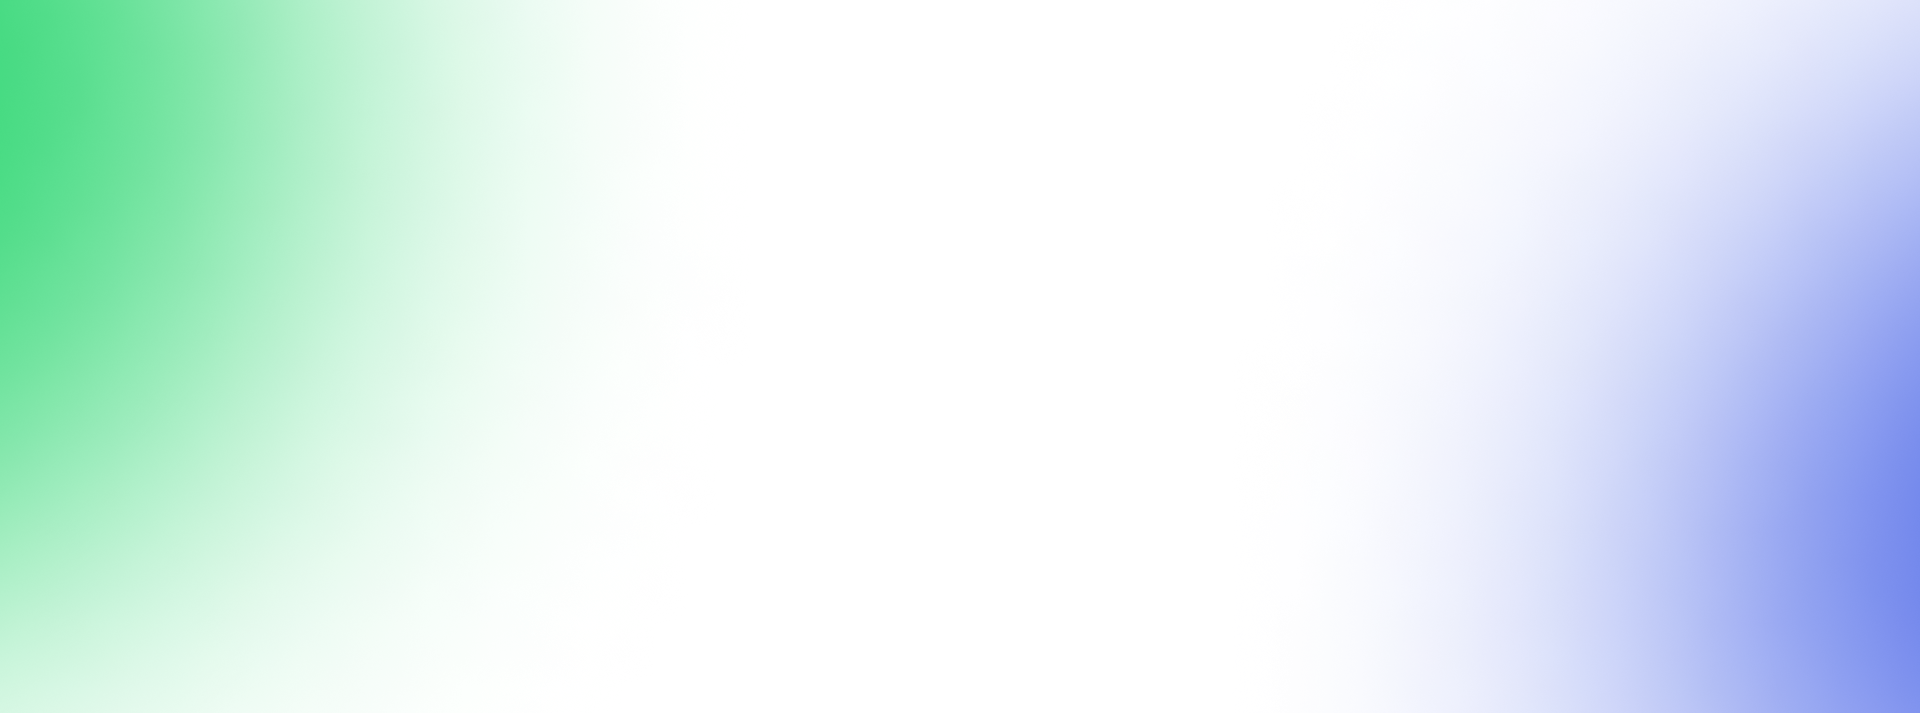
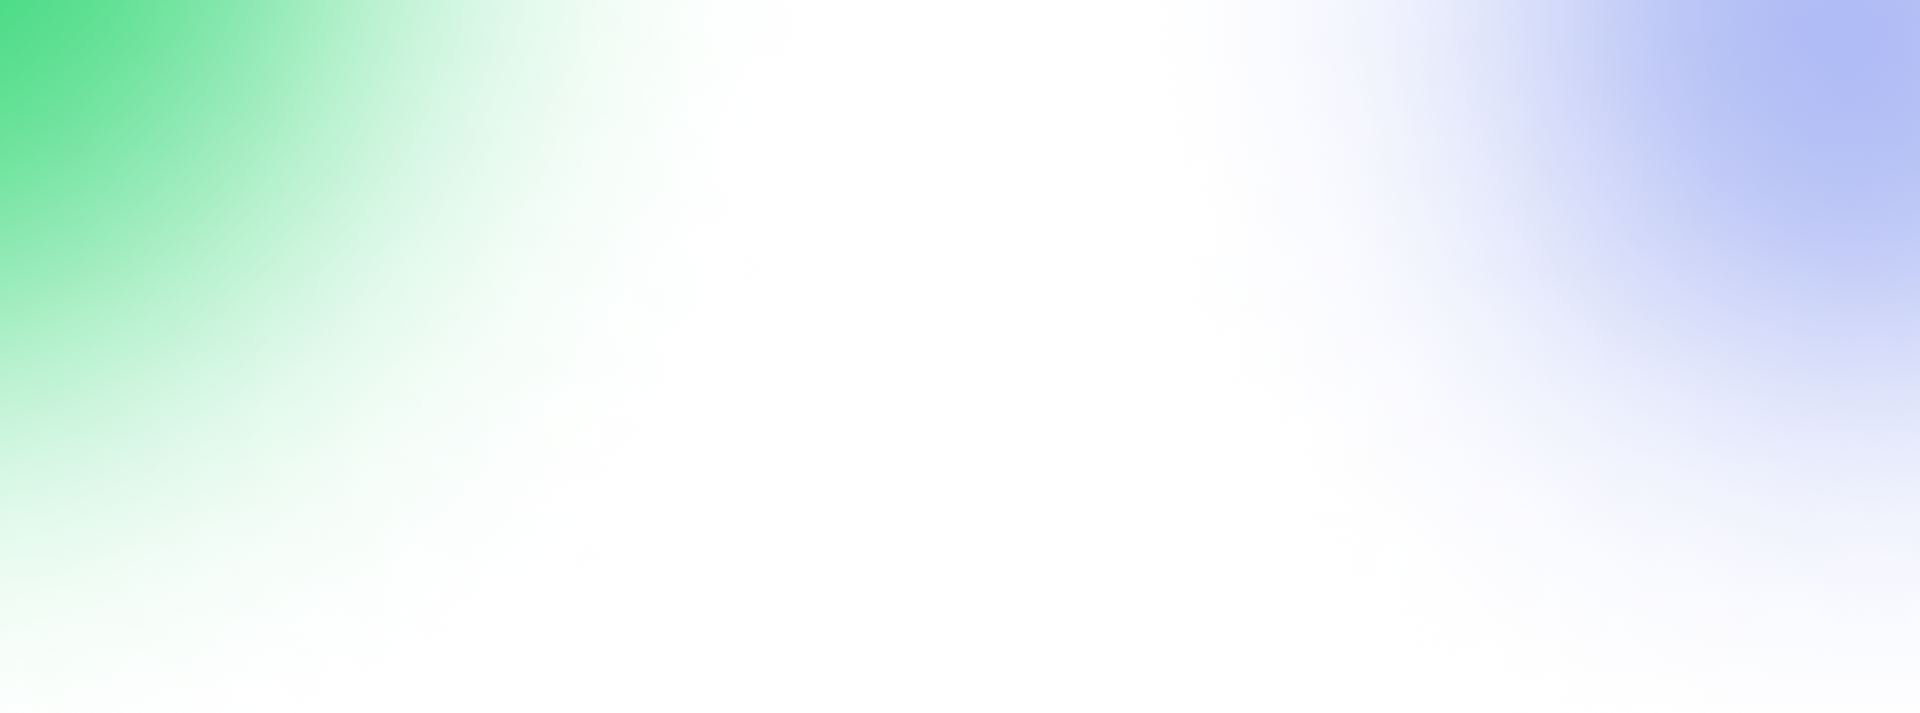
Add files via upload

Changed region(s): [[0.0, 0.1234, 0.1875, 1.0], [0.7812, 0.3086, 1.0, 1.0], [0.75, 0.0, 1.0, 0.2777]]

diff --git a/index.html b/index.html
@@ -8,25 +8,25 @@
     <link rel="stylesheet" href="assets/css/all.css">
 </head>
 <body> 
-        <header>
-            <div class="container">
-                <div >
-                    <i class="fa-solid fa-bars"></i> 
-               </div>
-               <div>               
-                    <img src="assets/images/harmony-logo.png" class="logo" alt="Harmony Agência - LogoMarca"> 
-
+        <div class="section">
+            <header>
+                <div class="container">
+                    <div >
+                        <i class="fa-solid fa-bars"></i> 
                 </div>
-               <div>
-                    
-                    <div class="hidden-xs">
-                        <span>+55 1198841 - 9084</span>
-                        <button> <i class="fa-brands fa-whatsapp"></i> Fale agora</button>
-                   </div>
-               </div>
-            </div>
-        </header>
-        <main>
+                <div>               
+                        <img src="assets/images/harmony-logo.png" class="logo" alt="Harmony Agência - LogoMarca"> 
+
+                    </div>
+                <div>
+                        
+                        <div class="hidden-xs">
+                            <span>+55 1198841 - 9084</span>
+                            <button> <i class="fa-brands fa-whatsapp"></i> Fale agora</button>
+                    </div>
+                </div>
+                </div>
+            </header>
             <div class="panel">
                 <div class="container">
                     <h1>
@@ -37,11 +37,15 @@
                         <button class="inline-btn">   Fale com expecialista</button>  
                     </div>
                     <div class="tecno">
-                        <img class="img-fluid" src="/assets/images/tecnologias.png" alt="">
+                        <img class="img-fluid" src="assets/images/tecnologias.png" alt="">
                         
                     </div>
                 </div>
             </div>
+        </div>
+
+        <main>
+            
             <div class="about">
                 <div class="container">
                     <div>

diff --git a/assets/css/index.css b/assets/css/index.css
@@ -5,10 +5,16 @@ body{
     font-family: "Montserrat", sans-serif;
     font-optical-sizing: auto; 
     font-style: normal;
+    padding: 0;
+    margin: 0;
+ 
+}
+.section{
     background-image: url('../images/background.png');
-    /* background-repeat: no-repeat; */
+    background-repeat: no-repeat;
     background-size: cover;
-    background-position: center bottom;
+    background-position: center ;
+    padding: 0;
 }
 button {
     background: transparent;
